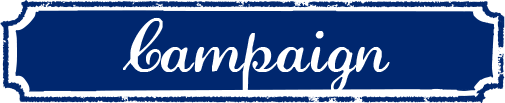
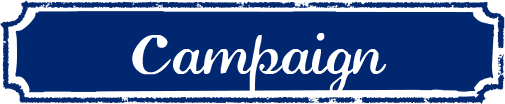
Updates

diff --git a/me/happyforme/index.html b/me/happyforme/index.html
@@ -155,7 +155,7 @@ j=d.createElement(s),dl=l!='dataLayer'?'&l='+l:'';j.async=true;j.src=
 <main id="main">
   <div id="content">
     <section id="campaign" class="campaign">
-      <h2 class="title01"><img src="images/btn_01.png" alt="Campaign"></h2>
+      <h2 class="title"><img src="images/btn_01.png" class="pcOnly" alt="Campaign"><img src="images/btn_01_sp.png" class="spOnly" alt="Campaign"></h2>
       <img src="images/text01.png" class="text01 pcOnly" alt="わたし的Happyな瞬間、 アリ or ナシ?ムービーを観て参加 してね!">
       <img src="images/text01_sp.png" class="text01 spOnly" alt="わたし的Happyな瞬間、 アリ or ナシ?ムービーを観て参加 してね!">
       <img src="images/img07.png" class="figure01 pcOnly" alt="Happy for me Ora2me">
@@ -180,7 +180,7 @@ j=d.createElement(s),dl=l!='dataLayer'?'&l='+l:'';j.async=true;j.src=
       <a href="entry/">応募はコチラ</a>
     </section>
     <section class="media">
-      <h2 class="title"><img src="images/btn_02.png" alt="TVCM"></h2>
+      <h2 class="title"><img src="images/btn_02.png" class="pcOnly" alt="TVCM"><img src="images/btn_02_sp.png" class="spOnly" alt="TVCM"></h2>
       <p class="tvcm-desc">
         Jason Brooksのイラストから抜け出してきたようなヨーロッパの街角で、<br>
         小松菜奈さんが演じるのは、自分らしさを大切にして、<br>

diff --git a/me/happyforme/css/top.css b/me/happyforme/css/top.css
@@ -246,8 +246,8 @@
     background-image: url(../images/bg.png);
     padding: 59px 0 53px;
   }
-  .campaign .campaign_title {  display: block; margin: 0 auto 30px; width: 303px; }
-  .campaign .campaign_title img { display: block; width: 100%; }
+  .campaign .title {  display: block; margin: 0 auto 30px; width: 303px; }
+  .campaign .title img { display: block; width: 100%; }
   .campaign .text01 { display: block; margin:  0 auto 24px; width: 381px; }
   .campaign .figure01 { display: block; margin: 0 auto 11px; width: 186px; }
   .campaign .text02 { display: block; margin: 0 auto 36px; width: 395px; }
@@ -568,7 +568,7 @@
     font-size: 13px;
     line-height: 13px;
   }
-  .campaign .campaign_title { width: 70%; }
+  .campaign .title { width: 70%; }
   .campaign .text01 { width: 70%; }
   .campaign .figure01 { margin: 0 auto 5px; width: 45%; }
   .campaign .figure02-sp { width: 100%; }

diff --git a/me/happyforme/entry/index.html b/me/happyforme/entry/index.html
@@ -128,9 +128,8 @@ j=d.createElement(s),dl=l!='dataLayer'?'&l='+l:'';j.async=true;j.src=
       <h2><img src="images/title01.png" class="pcOnly" alt="Happy for me MOVIES"></h2>
       <h2><img src="images/title01_sp.png" class="spOnly" alt="Happy for me MOVIES"></h2>
       <p class="pcOnly">
-        <span class="nl-sp">あなたが気になるHappy for me♥な</span>ムービーは、どれ？<br>
-        <br>
-        <span class="nl-sp">ムービーを観て、「わかる」「わかんない」で</span>シェアしてキャンペーンに参加！
+        あなたが気になるHappy for me♥なムービーは、どれ？<br>
+        ムービーを観て、「わかる」「わかんない」でシェアしてキャンペーンに参加！
       </p>
       <p class="spOnly">
         <strong>

diff --git a/me/happyforme/entry/css/top.css b/me/happyforme/entry/css/top.css
@@ -150,7 +150,7 @@
     line-height: 26px;
     text-align: left;
   }
-  .steps .step-wrap a.tw-btn {
+  .steps .step-wrap a.btn-tw {
     background-color: #58a3da;
     background-image: url(../images/icn_tw.png);
     background-position: 25% center;
@@ -202,7 +202,7 @@
   .description p {
     color: #fff;
     font-size: 24px;
-    line-height: 24px;
+    line-height: 40px;
     text-align: center;
   }
   .video-list {
